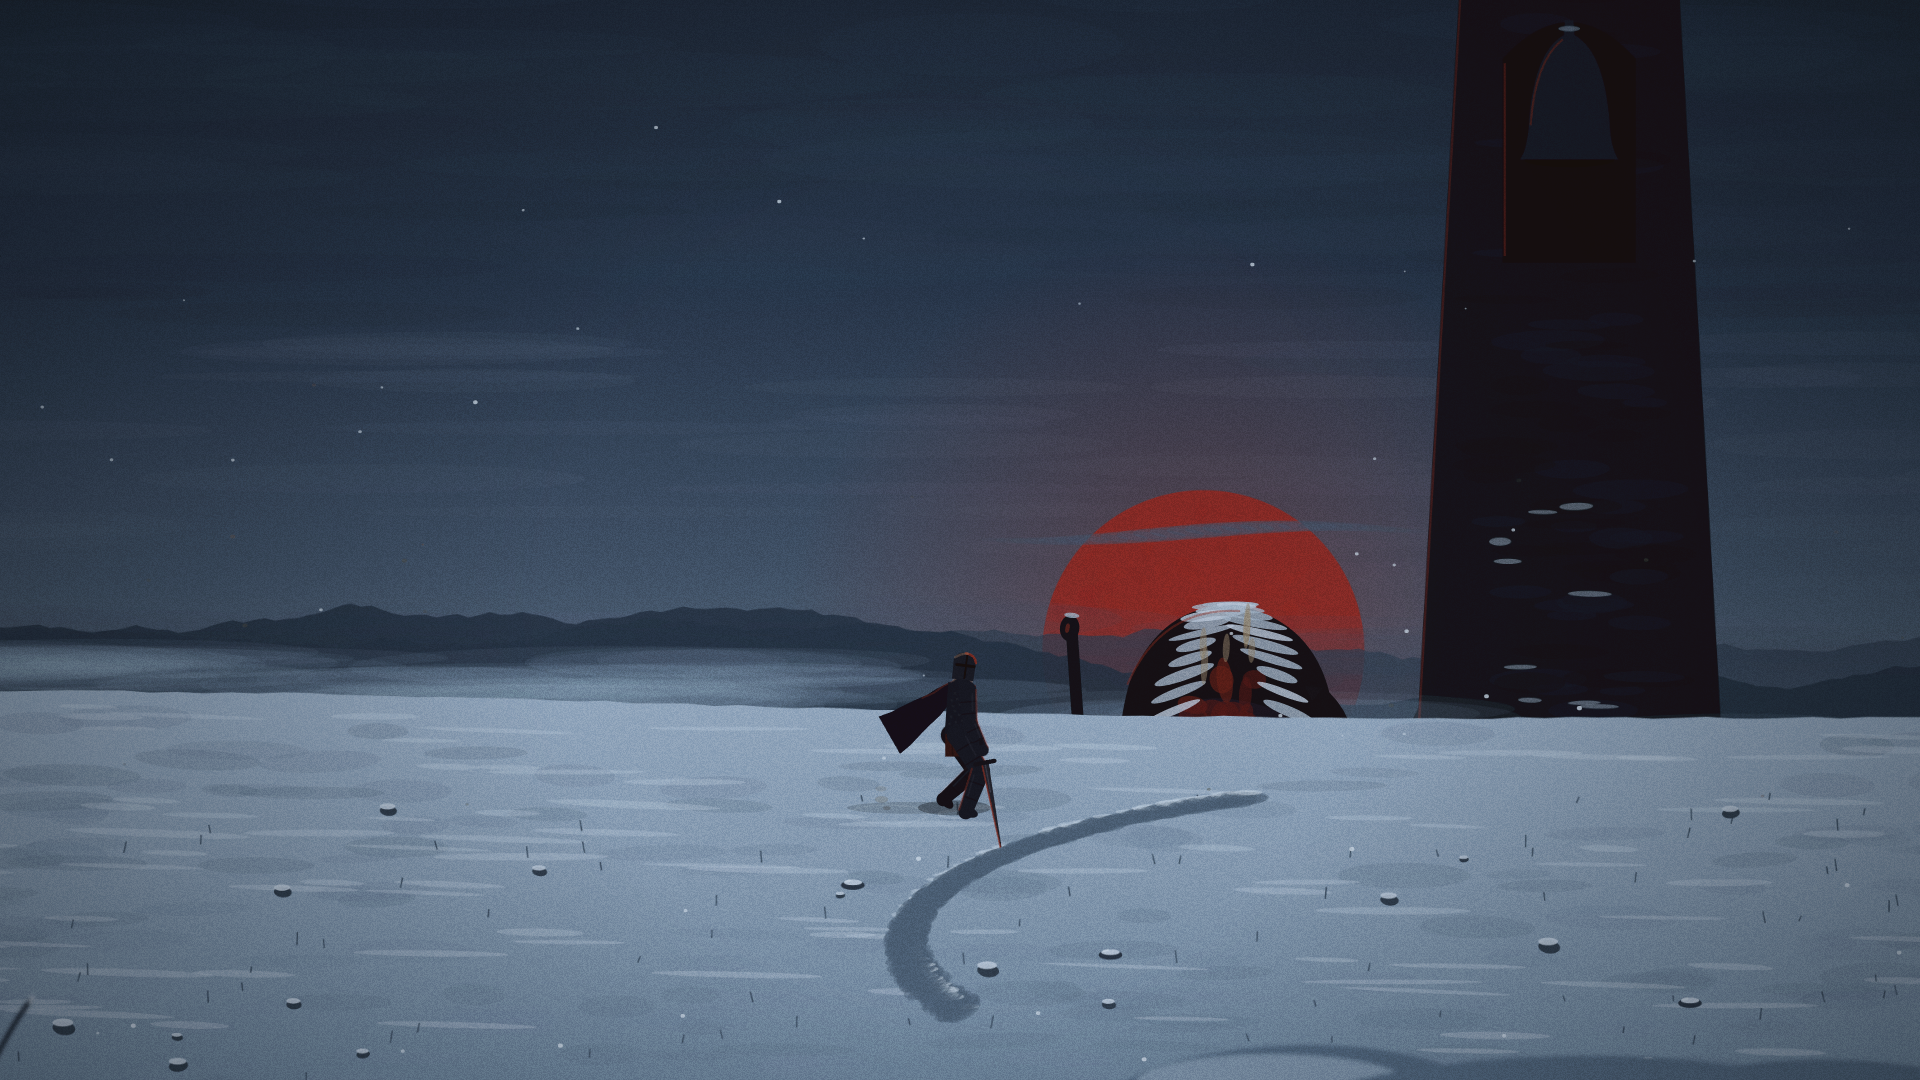
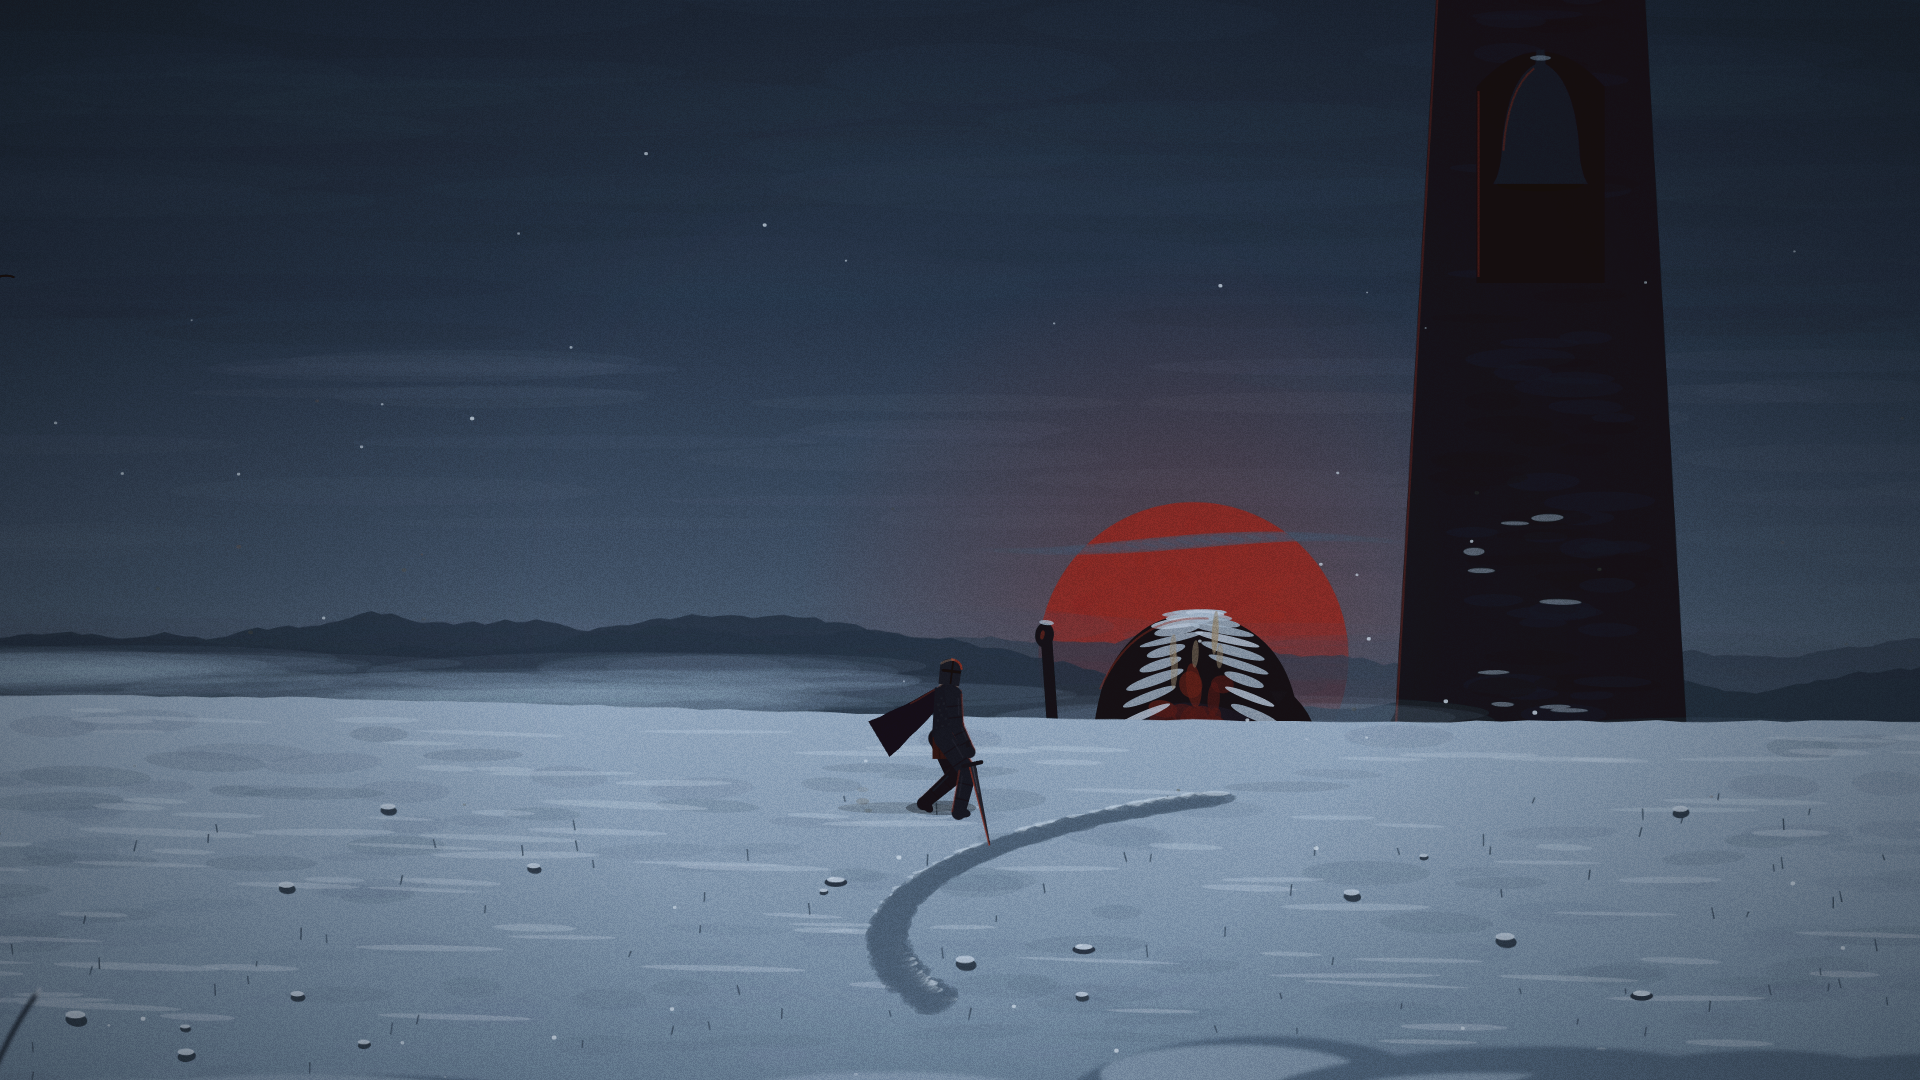
Phase 3a COMPLETE — THE REVEAL board-passed: he stands, and stands, and stands
Form iterations under the Review Board: 21-point shared contour (kneel keeps
degenerate ground points; the stand opens a leg gap that grows UPWARD out of
the drift - his legs emerge from the snow as he rises). Head low-slung in
front of the mountain hump, boxy muzzle jut, horns wrapping DOWN around the
face (he lowers his head to listen), pelt as ONE wind-stripped flank patch,
wax strata hanging down the east slope inside the crest, two-segment ward arm
with mass + garland on the warding wrist, gripped clapper dragged east with
an ember-rimmed edge (the 64px triad: hunch + down-horns + dragged line).
Static pose harness: scripts/awake-pose.mjs + __somnium.awakePose(r).
Proof docs/awake/ - 08-the-ward is the poster: palm held flat over the tiny
knight, red flank in blue-white, the mute bell watching, the 400-year trench
curving to the knight's feet. 165fps all scenes.

Next: 3b THE WATCH (warning arcs, clapper shockwaves, the hour-toll) then
3c FEAR/MEMORY (he waits for the fallen) + the death kneel.

diff --git a/src/awake.ts b/src/awake.ts
@@ -16,9 +16,12 @@ export const AWAKE_BASE = 1006;   // the snowfield dips below the play plane her
 export const FLOOR_L = 1150, FLOOR_R = 1850; // the buried bronze floor (the threshold)
 const S = 4.0;
 
-// ---- silhouettes: 7-anchor closed paths (p0 · 5×[ctrl,anchor] · p6), S units, y UP ----
+// ---- silhouettes: 21-point closed contours (p0 · 10×[ctrl,anchor]), S units, y UP.
+// Both poses share the point count so the rise is a clean morph. The kneel keeps
+// degenerate ground points where the stand opens a gap between the legs — so the
+// legs EMERGE from the drift as he rises, the gap growing upward out of the snow.
 type Pt = [number, number];
-type Path7 = Pt[]; // [p0, c1,a1, c2,a2, c3,a3, c4,a4, c5,a5, p6] — 12 points
+type Path7 = Pt[];
 
 // kneeling, head EAST toward the bell he keeps (matches the Phase-1 bake)
 const KNEEL_E: Path7 = [
@@ -28,7 +31,11 @@ const KNEEL_E: Path7 = [
   [22, 60], [26, 44],
   [34, 36], [30, 26],
   [26, 16], [18, 12],
-  [16, 0],
+  [17, 8], [16, 4],
+  [16, 2], [16, 0],
+  [10, 0], [4, 0],
+  [-2, 0], [-8, 0],
+  [-14, 0], [-18, 0],
 ];
 // kneeling, head turned WEST over the shoulder — the moment he has heard them
 const KNEEL_W: Path7 = [
@@ -38,17 +45,26 @@ const KNEEL_W: Path7 = [
   [10, 62], [2, 52],
   [-8, 46], [-14, 36],
   [-10, 24], [-2, 18],
-  [16, 0],
+  [4, 12], [10, 6],
+  [14, 3], [16, 0],
+  [10, 0], [4, 0],
+  [-2, 0], [-8, 0],
+  [-14, 0], [-18, 0],
 ];
-// standing: mountain-shouldered hunch, head low-slung in front, horns down. ~150 S tall.
+// standing: mountain-shouldered hunch, head LOW-SLUNG in front of the hump,
+// boxy muzzle jut, long back slope, two pillar legs with open sky between. ~152 S.
 const STAND_W: Path7 = [
-  [-22, 0],
-  [-30, 45], [-28, 78],
-  [-44, 86], [-38, 96],
-  [-30, 116], [-12, 138],
-  [4, 154], [18, 130],
-  [30, 90], [28, 48],
-  [20, 0],
+  [-20, 0],
+  [-26, 30], [-24, 62],
+  [-30, 78], [-28, 92],
+  [-46, 94], [-42, 108],
+  [-30, 124], [-14, 138],
+  [2, 152], [14, 144],
+  [26, 120], [26, 78],
+  [28, 46], [22, 28],
+  [18, 12], [14, 0],
+  [10, 26], [0, 30],
+  [-8, 28], [-12, 0],
 ];
 
 // horns sweep DOWN (he lowers his head to LISTEN): per-pose [start, ctrl, end] ×2
@@ -62,11 +78,11 @@ const HORNS_KW: Horn[] = [
   [[-2, 44], [14, 50], [22, 44]],
 ];
 const HORNS_SW: Horn[] = [
-  [[-36, 100], [-56, 94], [-58, 74]],
-  [[-28, 110], [-12, 118], [-4, 112]],
+  [[-16, 128], [-40, 132], [-48, 104]],
+  [[-4, 134], [16, 138], [24, 122]],
 ];
-// ear anchor (the first thing that moves) + muzzle tip per pose
-const EAR_E: Pt = [22, 42]; const EAR_KW: Pt = [-2, 50]; const EAR_SW: Pt = [-26, 114];
+// ear anchor (the first thing that moves) per pose
+const EAR_E: Pt = [22, 42]; const EAR_KW: Pt = [-2, 50]; const EAR_SW: Pt = [-8, 132];
 
 function lerpPath(a: Path7, b: Path7, u: number): Path7 {
   return a.map((p, i) => [lerp(p[0], b[i][0], u), lerp(p[1], b[i][1], u)] as Pt);
@@ -108,17 +124,32 @@ export class FirstAwake {
   private pelt: { i: number; j: number; f: number; ox: number; oy: number; w: number; h: number; rot: number; c: string }[] = [];
 
   constructor() {
-    const anchors = [2, 4, 6, 8]; // haunch→hump→neck region indices into Path7
+    // ONE wind-stripped flank patch (the bake's law: many-and-weak, clustered) +
+    // a few strays — never confetti
     for (let k = 0; k < 44; k++) {
-      const i = anchors[(this.R() * anchors.length) | 0];
+      const stray = this.R() > 0.75;
+      const [i, j] = stray
+        ? ([[2, 4], [12, 14], [10, 12]] as [number, number][])[(this.R() * 3) | 0]
+        : [4, 12] as [number, number]; // chest→mid-back: the flank
       this.pelt.push({
-        i, j: i === 8 ? 6 : i + 2, f: this.R(),
-        ox: (this.R() - 0.5) * 10, oy: -(this.R() * 14),
-        w: (3 + this.R() * 6) * 0.4, h: (5 + this.R() * 9) * 0.4,
+        i, j, f: stray ? this.R() : 0.3 + this.R() * 0.45,
+        ox: (this.R() - 0.5) * 7, oy: -(this.R() * 8),
+        w: (4 + this.R() * 6) * 0.35, h: (6 + this.R() * 9) * 0.35,
         rot: (this.R() - 0.5) * 0.5,
         c: this.R() < 0.6 ? "#4a1410" : "#5e1a12",
       });
     }
+  }
+
+  // QA-only: freeze the boss at a given rise for the pose harness
+  debugFreeze = false;
+  debugPose(r: number) {
+    this.debugFreeze = true;
+    this.rise = clamp(r, 0, 1);
+    this.headTurn = this.rise > 0 ? clamp(this.rise / 0.15, 0, 1) : 0;
+    this.state = r >= 1 ? "ward" : r > 0 ? "rise" : "statue";
+    this.stateT = 3;
+    this.shed = true;
   }
 
   get dramatic() { return this.state === "listen" || this.state === "rise" || this.state === "ward"; }
@@ -139,6 +170,7 @@ export class FirstAwake {
   }
 
   update(dt: number, t: number, nearestKnightX: number | null, anyOnFloor: boolean, fx: Fx) {
+    if (this.debugFreeze) return;
     this.stateT += dt;
     this.earFlick = Math.max(0, this.earFlick - dt * 2.2);
 
@@ -294,35 +326,20 @@ export class FirstAwake {
     const W = (p: Pt): Pt => [p[0] * S, -p[1] * S];
 
     // the body — the only warm-dark mountain in the blue-white
-    ctx.fillStyle = "#0f0b0e";
+    ctx.fillStyle = "#140a0c"; // black pelt with the heart's red in it
     ctx.beginPath();
     const pts = path.map(W);
     ctx.moveTo(pts[0][0], pts[0][1]);
     for (let i = 1; i + 1 < pts.length; i += 2) {
       ctx.quadraticCurveTo(pts[i][0], pts[i][1], pts[i + 1][0], pts[i + 1][1]);
     }
-    ctx.lineTo(pts[11][0], pts[11][1]);
     ctx.closePath();
     ctx.fill();
-
-    // standing: leg separations painted INTO the mass (pelt curtain, not anatomy)
-    if (u > 0.25) {
-      ctx.strokeStyle = "#070509";
-      ctx.globalAlpha = 0.7 * clamp((u - 0.25) / 0.5, 0, 1);
-      ctx.lineWidth = 3.5;
-      for (const lx of [-9, 8]) {
-        ctx.beginPath();
-        ctx.moveTo(lx * S, 0);
-        ctx.quadraticCurveTo((lx + 2) * S, -34 * S * u, (lx + 4) * S, -52 * S * u);
-        ctx.stroke();
-      }
-      ctx.globalAlpha = 1;
-    }
 
     // horns — down-swept; he lowers his head to listen
     ctx.strokeStyle = "#151018";
     ctx.lineCap = "round";
-    ctx.lineWidth = 6.5 * S * 0.5;
+    ctx.lineWidth = 6.5 * S * 0.7;
     for (const h of horns) {
       const [a, c, b] = h.map(W);
       ctx.beginPath();
@@ -344,7 +361,7 @@ export class FirstAwake {
     ctx.fill();
     ctx.restore();
 
-    // pelt dabs riding the morph
+    // pelt dabs riding the morph — the flank wind-stripped to the heart's red
     for (const d of this.pelt) {
       const a = pts[d.i], b = pts[d.j];
       const px = lerp(a[0], b[0], d.f) + d.ox * S * 0.4;
@@ -353,7 +370,7 @@ export class FirstAwake {
       ctx.translate(px, py);
       ctx.rotate(d.rot);
       ctx.fillStyle = d.c;
-      ctx.globalAlpha = 0.62;
+      ctx.globalAlpha = 0.5;
       ctx.beginPath();
       ctx.ellipse(0, 0, d.w * S, d.h * S, 0, 0, TAU);
       ctx.fill();
@@ -361,14 +378,17 @@ export class FirstAwake {
     }
     ctx.globalAlpha = 1;
 
-    // wax strata (generations of keepers anointed him) — pale drips off the hump
-    const humpTop = pts[7];
+    // wax strata (generations of keepers anointed him) — drips hanging DOWN the
+    // east shoulder slope, inside the silhouette, never breaking the crest line
+    const humpTop = pts[10], slope = pts[12];
     for (let i = 0; i < 6; i++) {
-      const wx = humpTop[0] + (i - 2.5) * 3.4 * S * 0.8;
+      const f = 0.15 + (i / 6) * 0.6;
+      const wx = lerp(humpTop[0], slope[0], f);
+      const wy = lerp(humpTop[1], slope[1], f) + (8 + (i % 3) * 5) * S * 0.5;
       ctx.fillStyle = "#8a7a62";
-      ctx.globalAlpha = 0.5;
+      ctx.globalAlpha = 0.45;
       ctx.beginPath();
-      ctx.ellipse(wx, humpTop[1] + (10 + (i % 3) * 6) * S * 0.5, 1.6 * S * 0.5, (5 + (i * 7) % 8) * S * 0.5, 0.05, 0, TAU);
+      ctx.ellipse(wx, wy, 1.6 * S * 0.5, (5 + (i * 7) % 8) * S * 0.5, 0.05, 0, TAU);
       ctx.fill();
     }
     ctx.globalAlpha = 1;
@@ -391,14 +411,25 @@ export class FirstAwake {
       ctx.globalAlpha = 1;
     }
     if (grip != null && grip > 0) {
-      // in his fist: dragged low at his side, tip resting in the trench it carved
-      const hx = lerp(-30, -26, grip) * S, hy = lerp(-40, -86, grip) * S;
-      const tx = lerp(-34, -62, grip) * S, ty = lerp(-58 * S, -6, grip * grip);
+      // in his fist: dragged low behind him, tip deepening the 400-year trench
+      const hx = lerp(-30, 20, grip) * S, hy = -lerp(40, 56, grip) * S;
+      const tx = lerp(-34, 38, grip) * S, ty = -lerp(58, 1, grip) * S;
       ctx.globalAlpha = grip;
       ctx.beginPath();
       ctx.moveTo(hx, hy);
       ctx.lineTo(tx, ty);
       ctx.stroke();
+      // the Ember finds its west edge — the dragged line must read at 64px (§5)
+      ctx.strokeStyle = "#7e2418";
+      ctx.globalAlpha = grip * 0.55;
+      ctx.lineWidth = 2.4;
+      ctx.beginPath();
+      ctx.moveTo(hx - 4, hy);
+      ctx.lineTo(tx - 4, ty);
+      ctx.stroke();
+      ctx.strokeStyle = "#0a0c11";
+      ctx.lineWidth = 11;
+      ctx.globalAlpha = grip;
       ctx.fillStyle = "#0a0c11";
       ctx.beginPath(); ctx.ellipse(tx, ty, 4.5 * S * 0.55, 5 * S * 0.4, 0.2, 0, TAU); ctx.fill();
       ctx.globalAlpha = 1;
@@ -420,20 +451,34 @@ export class FirstAwake {
     // THE WARD — palm-down with the off-hand: *quiet. stay.* (he is still a keeper)
     if (this.state === "ward" || (this.state === "rise" && this.rise > 0.9)) {
       const wa = this.state === "ward" ? clamp(this.stateT / 1.4, 0, 1) : 0.2;
-      const sh = pts[6]; // neck-base anchor
-      const ex = sh[0] - 34 * S * wa, ey = sh[1] + 26 * S * wa;
-      ctx.strokeStyle = "#0f0b0e";
-      ctx.lineWidth = 8 * S * 0.5;
+      // a real arm with mass: shoulder under the muzzle, elbow, flat-held palm
+      const sh: Pt = [-20 * S, -92 * S];
+      const el: Pt = [lerp(-22, -34, wa) * S, lerp(-80, -76, wa) * S];
+      const hd: Pt = [lerp(-22, -46, wa) * S, lerp(-68, -62, wa) * S];
+      ctx.strokeStyle = "#140a0c";
       ctx.lineCap = "round";
+      ctx.lineWidth = 6.5 * S;
       ctx.beginPath();
-      ctx.moveTo(sh[0] - 4 * S, sh[1] + 8 * S);
-      ctx.quadraticCurveTo(sh[0] - 18 * S * wa, sh[1] + 10 * S, ex, ey);
+      ctx.moveTo(sh[0], sh[1]);
+      ctx.lineTo(el[0], el[1]);
+      ctx.stroke();
+      ctx.lineWidth = 5 * S;
+      ctx.beginPath();
+      ctx.moveTo(el[0], el[1]);
+      ctx.lineTo(hd[0], hd[1]);
       ctx.stroke();
       // the palm, held flat over the earth
-      ctx.fillStyle = "#0f0b0e";
+      ctx.fillStyle = "#140a0c";
       ctx.beginPath();
-      ctx.ellipse(ex - 3 * S * wa, ey + 1.5 * S, 5.5 * S * 0.6, 2.2 * S * 0.6, 0.1, 0, TAU);
+      ctx.ellipse(hd[0] - 3 * S * wa, hd[1] + 1.5 * S, 6.5 * S * 0.6, 2.4 * S * 0.6, 0.1, 0, TAU);
       ctx.fill();
+      // garland on THIS wrist too — the warding hand wears their love
+      ctx.fillStyle = "#5a5040";
+      ctx.globalAlpha = 0.7 * wa;
+      ctx.beginPath();
+      ctx.ellipse(hd[0] + 2 * S, hd[1] - 1 * S, 3.4 * S * 0.6, 1.6 * S * 0.6, 0.2, 0, TAU);
+      ctx.fill();
+      ctx.globalAlpha = 1;
     }
 
     // drift piled where he knelt (stays — the field remembers his shape)

diff --git a/src/main.ts b/src/main.ts
@@ -140,6 +140,7 @@ declare global {
       slow: (f: number) => void; sx: (p2?: boolean) => number;
       shades: () => string;
       awake: () => string;
+      awakePose: (r: number) => void;
     };
   }
 }
@@ -185,6 +186,7 @@ window.__somnium = {
   },
   shades: () => shades.map((s) => `${s.state}@${Math.round(s.x)}p${s.posture}d${s.dents}`).join("|"),
   awake: () => (awake ? `${awake.state} t${awake.tolls}` : "none"),
+  awakePose: (r: number) => awake?.debugPose(r),
 };
 
 const perf: Perf = { fps: 60, simMs: 0, renderMs: 0 };

diff --git a/docs/BUILD_LEDGER.md b/docs/BUILD_LEDGER.md
@@ -45,7 +45,7 @@ animation-first (GEEKED/RIFT WARDEN died ignoring it) · banned list absolute._
   palette check (4b) · stagger posture-knit tuning after pad feel.
 
 ## Phase 3 — THE FIRST AWAKE
-- [~] 3a. Reveal machinery ✅ WORKING / standing FORM ⟵ OPEN BOARD ITEM (docs/awake/)
+- [x] 3a. THE REVEAL ✅ BOARD-PASSED 2026-07-12 (proof docs/awake/, esp. 08-the-ward = the poster)
   Built: src/awake.ts — statue mode = EXACT live replica of the board-passed bake (seed 541, drawn
   between plate layers 3/4 so the field buries his knees, breathing with the Ember); buried-floor
   tolls (walk/sprint strides + rolls/strikes ring it, fx.tollRing snow-blooms); 2 tolls → LISTEN
@@ -53,13 +53,19 @@ animation-first (GEEKED/RIFT WARDEN died ignoring it) · banned list absolute._
   (5 beats: stand-hold-stand-hold-stand, ~8.6s; wheels west DURING the first standing; snow-shed
   covers the statue→rig swap); WARD (palm-down off-hand: *quiet. stay.*); re-kneels if the field
   empties. Camera locks wide (0.74) through the drama. 165fps all scenes (perf-probe).
-  **BOARD FAIL to fix next: the standing/mid-rise FORM** — reads as black egg → monolith with a
-  fire-ruff: pelt dabs clump at the crest (re-pin across the whole back edge, darken), horns dangle
-  as tubes mid-morph (author wider, keep them wrapping the head through the whole rise), STAND_W
-  path needs a real muzzle jut + neck-vs-hump separation + leg reads, ward arm too thin (16px on a
-  660px body). Also s5Ground hummock dabs scatter as pancakes at 0.74 zoom (soften).
-  Use a static-pose harness (draw STAND_W directly, iterate the path fast) before re-running the
-  reveal. Then: 3b Watch/shockwaves/hour-toll · 3c Fear/Memory/he-waits · death kneel + quieter world.
+  Form iterations (board): 21-point shared contour so legs EMERGE from the drift as the gap opens
+  upward; head low-slung in front of the mountain hump w/ boxy muzzle; horns wrap DOWN around the
+  face; pelt = ONE wind-stripped flank patch + strays (never confetti); wax drips hang down the
+  east slope inside the crest; ward arm = real two-segment mass + garland on the warding wrist;
+  gripped clapper dragged east w/ ember-rimmed west edge (64px triad: hunch+horns+dragged line).
+  Static harness scripts/awake-pose.mjs (__somnium.awakePose) for fast pose iteration.
+- [ ] 3b. THE WATCH: warning arcs, clapper shockwaves (snow-bloom rings), the mid-fight hour-toll
+  he refuses to skip; threshold = pressing past him; never pursues beyond the buried floor.
+- [ ] 3c. THE FEAR (red deepens, horizontal snow, down-horns lead) + THE MEMORY (keeper's staff-drill;
+  **if a knight falls he WAITS**) + death kneel (plants clapper, kneels, greys — the stair statues
+  were never statues) + the world grows quieter + "the watch is kept."
+  Notes: mid-rise horn morph slightly tubes (motion covers; check in 4b capture) · s5Ground hummocks
+  scatter as pancakes at 0.74 zoom (soften in 4b) · journey full-0X stills mistimed vs scenes (fix script).
 
 ## Phase 4 — Polish
 - [ ] 4a. Audio: lullaby (unresolved until epilogue), toll accelerando, per-scene beds, ringing blade, scored silences

diff --git a/docs/CANON_LOG.md b/docs/CANON_LOG.md
@@ -50,3 +50,4 @@ _Format: date · element (type) · gate verdict · scene/hue · one-line law-fit
 - 2026-07-12 · GATE 0 CLOSED · IAN'S DIRECT ORDER · all scenes · "no i want u to build the full game" — the atmosphere-benchmark loop ends, full v1 build begins per BRIEF §7.9 · FULL BUILD
 - 2026-07-12 · Moveset BUILT (Phase 2a) · BOARD-PASSED · all scenes · §10 table live as contract data (F=1/60); 3 distinct cuts + heavy + run/roll/poke attacks + sprint/skid + fixed-distance roll w/ honest i-frames + guard/chip + Hush-parry (8f, world stall, riposte, dual wired) + quieting vow + collapse/crawl/rise + shoulder-offset embrace-revive; proof docs/moveset/ · PHASE 2A DONE
 - 2026-07-12 · Shade-knights BUILT (Phase 2b) · BOARD-PASSED · S1/S2/S4 · ink over denting Loud Age plate; attention-is-noise + proximity whisper + fire ward; parry stalls their ink; quieting = the tend-gesture; last-one-settles = 2s world breath; Ring v1 = whiffed heavy; ravens answer noise · PHASE 2B DONE (crows/bats as swoopers carried)
+- 2026-07-12 · THE FIRST AWAKE reveal BUILT (Phase 3a) · BOARD-PASSED · S5 red-on-snow · statue = exact bake replica breathing with the Ember; footsteps toll the buried floor; ear first; wheels west while standing thrice; palm-down ward; re-kneels when the field empties; legs emerge from the drift as the morph-gap opens upward · PHASE 3B/3C NEXT (Watch/Fear/Memory, death kneel)
